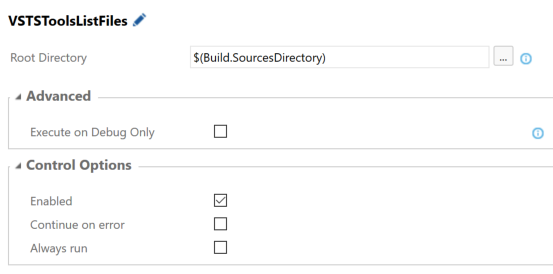
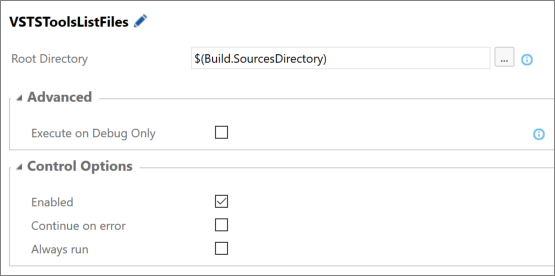
Added borders to screen shots.

diff --git a/VSTS-Extensions/overview.md b/VSTS-Extensions/overview.md
@@ -9,11 +9,14 @@ This extension will list out (in the log) all files beneath the folder specified
 * Root Directory - all files and folders beneath the root directory will be listed (recursively).
 * Execute on Debug Only - if checked, the task will execute only if **system.debug** is set to **true**.
 
+![VSTS-List Files Image](https://github.com/jbramwell/VSTS-Tools/blob/master/VSTS-Extensions/screenshots/ListFiles.png?raw=true)
 
 ## VSTS-List Variables
 This extension will list out (in the log) all variables that are defined at the time this extension is executed. There is one parameter that can be set with this task:
 
 * Execute on Debug Only - if checked, the task will execute only if **system.debug** is set to **true**.
+
+![VSTS-List Variables Image](https://github.com/jbramwell/VSTS-Tools/blob/master/VSTS-Extensions/screenshots/ListVariables.png?raw=true)
 
 ## VSTS-Keep
 *Coming Soon!* This extension allows you to set the retention for a specific build to *Keep Forever*.
